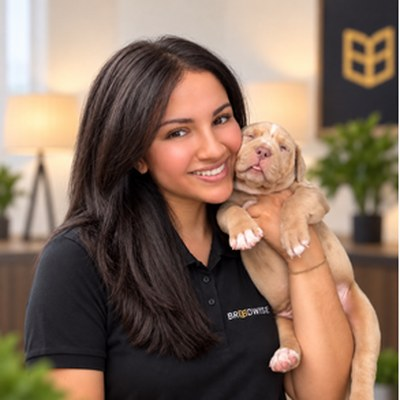
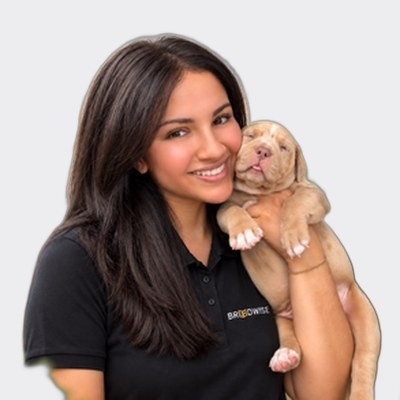
Academy: re-attribute Dr. Dave sample, fix Shaylee line, matte Yasmin + Dave headshots
- Free-sample clip that actually features Dr. David Mahoney now credited to him (was Austin)
- Results: 'from nothing to a waitlist, with health testing'
- Background removed on Yasmin and Dr. Dave headshots (clean neutral studio bg)

diff --git a/academy/assets/content.js b/academy/assets/content.js
@@ -104,7 +104,7 @@ window.BW = {
   samples: [
     { id: "whelping",  title: "The Two Clocks of a Difficult Birth", pillar: "Whelping & neonatal care", presenter: "Dr. Emmanuel Fontaine", length: "Preview", video: "/academy/assets/video/sample-whelping.mp4", worksheet: "" },
     { id: "genetics",  title: "The Power of Diversity",              pillar: "Genetics & program design", presenter: "Dr. Angela Hughes",     length: "Preview", video: "/academy/assets/video/sample-genetics.mp4", worksheet: "" },
-    { id: "business",  title: "Puppy Mills vs Purpose-Driven Programs", pillar: "Business & premium sales", presenter: "Austin Shanks",      length: "Preview", video: "/academy/assets/video/sample-business.mp4", worksheet: "" },
+    { id: "business",  title: "Puppy Mills vs Purpose-Driven Programs", pillar: "Breeding to the standard", presenter: "Dr. David Mahoney",      length: "Preview", video: "/academy/assets/video/sample-business.mp4", worksheet: "" },
     { id: "puppy-content", title: "Content Distribution", pillar: "Puppy content & marketing", presenter: "Austin Shanks", length: "Preview", video: "/academy/assets/video/sample-content-distribution.mp4", worksheet: "" }
   ],
 
@@ -112,7 +112,7 @@ window.BW = {
   results: [
     { metric: "$5,000 in 34 min", detail: "her highest price ever", name: "Lyanne Scott", breed: "Pomeranians", years: "" },
     { metric: "6 months out", detail: "OFA-tested and bred to the standard", name: "Regina", breed: "Shorty Frenchies", years: "" },
-    { metric: "200k+ followers", detail: "from nothing, plus a waitlist and health testing", name: "Shaylee & Sean", breed: "", years: "" }
+    { metric: "200k+ followers", detail: "from nothing to a waitlist, with health testing", name: "Shaylee & Sean", breed: "", years: "" }
   ],
 
   /* member video testimonials (home #results), 3 slots */

diff --git a/academy/index.html b/academy/index.html
@@ -343,7 +343,7 @@
   <div class="wrap" style="text-align:center;max-width:720px;margin:0 auto">
     <span class="eyebrow">See it before you apply</span>
     <h2 style="margin:12px 0 10px">Watch 4 real lessons, free.</h2>
-    <p class="lead" style="margin:0 auto 22px">Clinical, genetics, business and puppy content, pulled straight from inside the Academy. No call, no pitch. Watch, then decide.</p>
+    <p class="lead" style="margin:0 auto 22px">Clinical, genetics, veterinary and puppy content, pulled straight from inside the Academy. No call, no pitch. Watch, then decide.</p>
     <a class="btn btn-gold" href="curriculum/#samples">Watch the free samples →</a>
   </div>
 </section>
@@ -462,7 +462,7 @@
     <div class="grid-3" style="margin-top:30px">
       <div class="card result"><div class="big">$5,000 in 34 min</div><div class="who">Lyanne Scott · Pomeranians · her highest price ever</div></div>
       <div class="card result"><div class="big">6 months out</div><div class="who">Regina · Frenchies · OFA-tested, bred to the standard</div></div>
-      <div class="card result"><div class="big">200k+ followers</div><div class="who">Shaylee &amp; Sean · from nothing, with a waitlist &amp; health testing</div></div>
+      <div class="card result"><div class="big">200k+ followers</div><div class="who">Shaylee &amp; Sean · from nothing to a waitlist, with health testing</div></div>
     </div>
 
     <div class="reelwall three" style="margin-top:28px">

diff --git a/academy/curriculum/index.html b/academy/curriculum/index.html
@@ -150,9 +150,9 @@
         <p style="font-size:14px">Dr. Angela Hughes · Genetics &amp; program design</p>
       </div>
       <div class="card">
-        <div class="vslot" data-video="BW.samples.2.video" data-poster="/academy/assets/video/poster-business.jpg" data-cap="Business &amp; premium sales"></div>
+        <div class="vslot" data-video="BW.samples.2.video" data-poster="/academy/assets/video/poster-business.jpg" data-cap="Breeding to the standard"></div>
         <h3 style="margin-top:16px" data-bw="samples.2.title" data-bw-html></h3>
-        <p style="font-size:14px">Austin Shanks · Business &amp; premium sales</p>
+        <p style="font-size:14px">Dr. David Mahoney · Breeding to the standard</p>
       </div>
       <div class="card">
         <div class="vslot" data-video="BW.samples.3.video" data-poster="/academy/assets/video/poster-content.jpg" data-cap="Puppy content &amp; marketing"></div>

diff --git a/academy/education.html b/academy/education.html
@@ -121,9 +121,9 @@
         <p style="font-size:14px">Dr. Angela Hughes · Genetics &amp; program design</p>
       </div>
       <div class="card">
-        <div class="vslot" data-video="BW.samples.2.video" data-poster="/academy/assets/video/poster-business.jpg" data-cap="Business &amp; premium sales"></div>
+        <div class="vslot" data-video="BW.samples.2.video" data-poster="/academy/assets/video/poster-business.jpg" data-cap="Breeding to the standard"></div>
         <h3 style="margin-top:16px" data-bw="samples.2.title" data-bw-html></h3>
-        <p style="font-size:14px">Austin Shanks · Business &amp; premium sales</p>
+        <p style="font-size:14px">Dr. David Mahoney · Breeding to the standard</p>
       </div>
       <div class="card">
         <div class="vslot" data-video="BW.samples.3.video" data-poster="/academy/assets/video/poster-content.jpg" data-cap="Puppy content &amp; marketing"></div>
